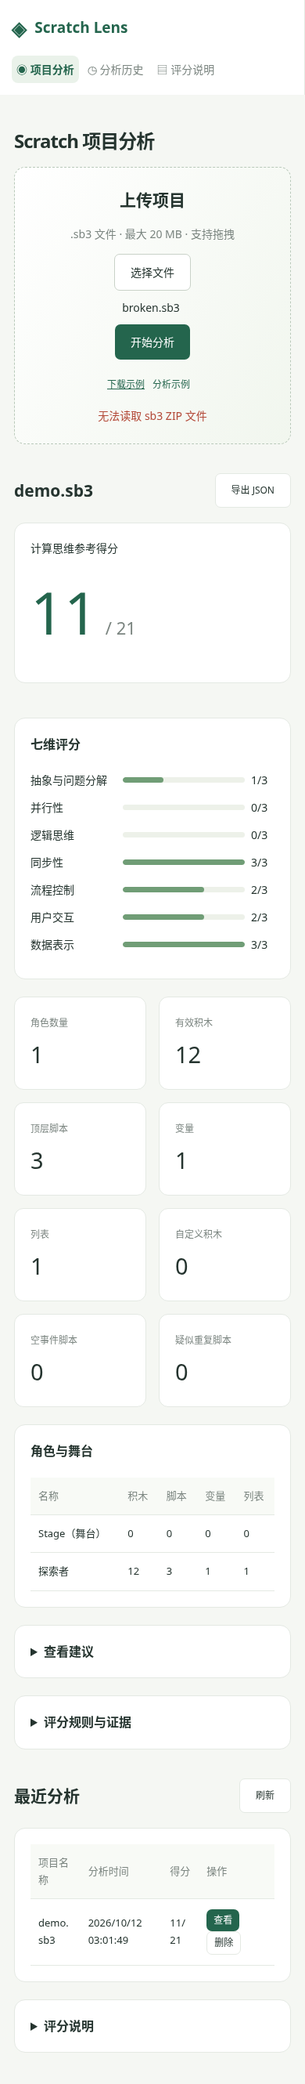
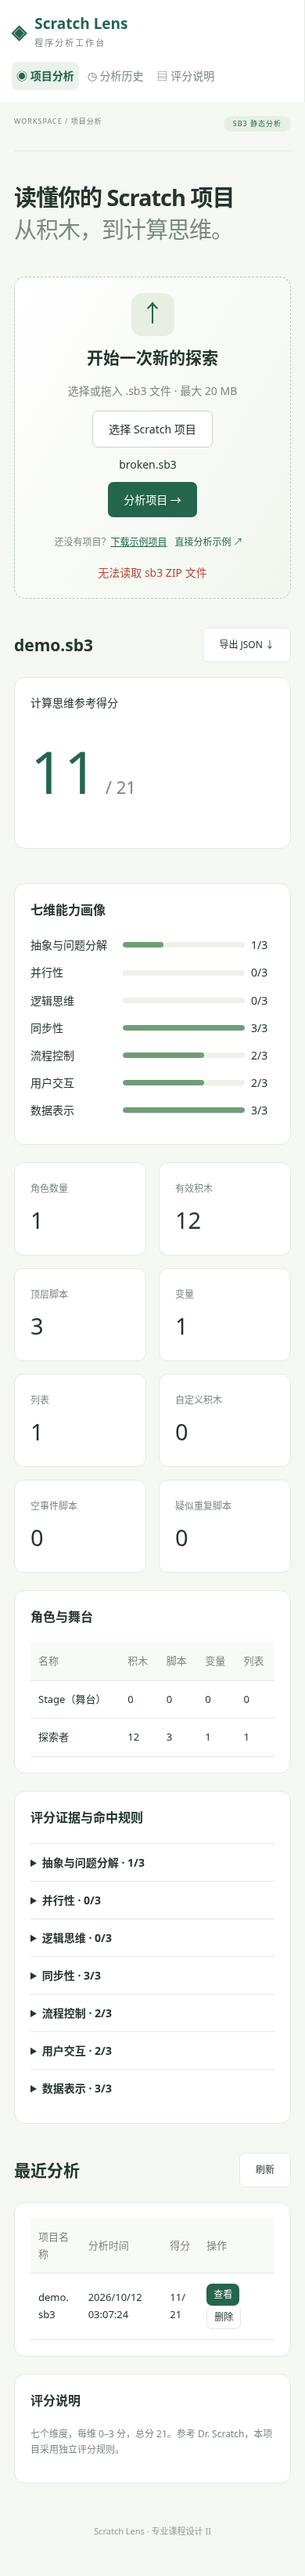
Restore original modules and remove unnecessary guidance copy

diff --git a/public/index.html b/public/index.html
@@ -1,3 +1,3 @@
 <!doctype html>
 <html lang="zh-CN"><head><meta charset="utf-8"><meta name="viewport" content="width=device-width,initial-scale=1"><title>Scratch Lens · 程序分析系统</title><link rel="stylesheet" href="/style.css"><script src="/app.js" defer></script></head>
-<body><aside><a class="brand" href="/">◈ <span>Scratch Lens</span></a><nav><a href="#upload">◉ 项目分析</a><a href="#history">◷ 分析历史</a><a href="#rules">▤ 评分说明</a></nav></aside><main><section class="intro"><h1>Scratch 项目分析</h1></section><section id="upload" class="upload card"><h2>上传项目</h2><p>.sb3 文件 · 最大 20 MB · 支持拖拽</p><form id="upload-form"><label class="file-label" for="file">选择文件</label><input id="file" name="file" type="file" accept=".sb3" required><span id="filename">尚未选择文件</span><button id="submit" type="submit">开始分析</button></form><div class="example"><a href="/api/example">下载示例</a><button id="demo" class="link" type="button">分析示例</button></div><p id="status" role="status" aria-live="polite"></p></section><section id="report" hidden><div class="section-heading"><div><h2 id="report-title">分析报告</h2></div><button id="export" class="secondary">导出 JSON</button></div><div class="report-grid"><div class="card score-card"><span>计算思维参考得分</span><div class="score"><strong id="score">0</strong><span>/ 21</span></div></div><div class="card dimensions"><h3>七维评分</h3><div id="dimensions"></div></div></div><div id="metrics" class="metrics"></div><div><section class="card"><h3>角色与舞台</h3><div class="table-wrap"><table><thead><tr><th>名称</th><th>积木</th><th>脚本</th><th>变量</th><th>列表</th></tr></thead><tbody id="targets"></tbody></table></div></section><details class="card suggestions"><summary>查看建议</summary><ul id="suggestions"></ul><ul id="warnings"></ul></details></div><details class="card evidence"><summary>评分规则与证据</summary><div id="evidence"></div></details></section><section id="history"><div class="section-heading"><div><h2>最近分析</h2></div><button id="refresh" class="secondary">刷新</button></div><div class="card table-wrap"><table><thead><tr><th>项目名称</th><th>分析时间</th><th>得分</th><th>操作</th></tr></thead><tbody id="history-body"></tbody></table></div></section><details id="rules" class="card rules"><summary>评分说明</summary><p>参考 Dr. Scratch 七维模型，每维 0–3 分，总分 21。具体规则为本项目独立实现，不代表官方评分。</p><p>仅做静态结构分析，分数不判断运行正确性。上传文件不保留，报告存于本机，可从历史删除；同一实例共享历史。</p></details></main></body></html>
+<body><aside><a class="brand" href="/">◈ <span>Scratch Lens<small>程序分析工作台</small></span></a><nav><a href="#upload">◉ 项目分析</a><a href="#history">◷ 分析历史</a><a href="#rules">▤ 评分说明</a></nav><div class="side-note">课程设计 · 题目七<br>让积木背后的思维可见</div></aside><main><header><span>WORKSPACE / 项目分析</span><span class="badge">SB3 静态分析</span></header><section class="intro"><h1>读懂你的 Scratch 项目<span>从积木，到计算思维。</span></h1></section><section id="upload" class="upload card"><div class="upload-icon">↑</div><h2>开始一次新的探索</h2><p>选择或拖入 .sb3 文件 · 最大 20 MB</p><form id="upload-form"><label class="file-label" for="file">选择 Scratch 项目</label><input id="file" name="file" type="file" accept=".sb3" required><span id="filename">尚未选择文件</span><button id="submit" type="submit">分析项目 →</button></form><div class="example">还没有项目？<a href="/api/example">下载示例项目</a><button id="demo" class="link" type="button">直接分析示例 ↗</button></div><p id="status" role="status" aria-live="polite"></p></section><section id="report" hidden><div class="section-heading"><div><h2 id="report-title">分析报告</h2></div><button id="export" class="secondary">导出 JSON ↓</button></div><div class="report-grid"><div class="card score-card"><span>计算思维参考得分</span><div class="score"><strong id="score">0</strong><span>/ 21</span></div></div><div class="card dimensions"><h3>七维能力画像</h3><div id="dimensions"></div></div></div><div id="metrics" class="metrics"></div><div><section class="card"><h3>角色与舞台</h3><div class="table-wrap"><table><thead><tr><th>名称</th><th>积木</th><th>脚本</th><th>变量</th><th>列表</th></tr></thead><tbody id="targets"></tbody></table></div></section><section id="warning-panel" class="card" hidden><h3>项目检查</h3><ul id="warnings"></ul></section></div><section class="card evidence"><h3>评分证据与命中规则</h3><div id="evidence"></div></section></section><section id="history"><div class="section-heading"><div><h2>最近分析</h2></div><button id="refresh" class="secondary">刷新</button></div><div class="card table-wrap"><table><thead><tr><th>项目名称</th><th>分析时间</th><th>得分</th><th>操作</th></tr></thead><tbody id="history-body"></tbody></table></div></section><section id="rules" class="card rules"><h3>评分说明</h3><p>七个维度，每维 0–3 分，总分 21。参考 Dr. Scratch，本项目采用独立评分规则。</p></section><footer>Scratch Lens · 专业课程设计 II</footer></main></body></html>

diff --git a/public/style.css b/public/style.css
@@ -1,4 +1,1 @@
 :root{--ink:#25342f;--muted:#7b8580;--green:#24654d;--line:#e4e9e3;--bg:#f5f7f3}*{box-sizing:border-box}html{scroll-behavior:smooth}body{margin:0;background:var(--bg);color:var(--ink);font:14px/1.65 system-ui,-apple-system,"Segoe UI",sans-serif}aside{width:230px;position:fixed;inset:0 auto 0 0;background:#fff;border-right:1px solid var(--line);padding:35px 25px}.brand{display:flex;gap:10px;align-items:center;font-size:25px;color:var(--green);text-decoration:none;font-weight:700}.brand span{font-size:19px}.brand small{display:block;font-size:11px;font-weight:400;color:var(--muted);letter-spacing:2px}nav{display:grid;gap:15px;margin-top:55px}nav a{padding:12px 15px;text-decoration:none;color:var(--muted);border-radius:8px}nav a:first-child{background:#eaf2ea;color:var(--green);font-weight:600}.side-note{position:absolute;bottom:35px;color:var(--muted);font-size:12px;line-height:2}main{max-width:1400px;margin-left:230px;padding:25px 50px}header{display:flex;justify-content:space-between;padding-bottom:24px;border-bottom:1px solid var(--line);color:var(--muted);font-size:11px;letter-spacing:1px}.badge{background:#e7efe4;color:var(--green);padding:3px 12px;border-radius:20px}.intro{padding:45px 0 25px}.eyebrow{font-size:10px;letter-spacing:2px;color:var(--green);font-weight:700}h1{font-size:38px;line-height:1.4;letter-spacing:-1px;margin:14px 0}h1 span{display:block;font-weight:400;color:#7b8b7d}p{color:var(--muted)}h2{font-size:21px;margin:10px 0}h3{font-size:16px;margin:0 0 20px}.card{background:#fff;border:1px solid var(--line);border-radius:14px;padding:27px;margin-bottom:22px}.upload{text-align:center;border:1px dashed #b9c9ba;background:linear-gradient(120deg,#fff,#f1f6ee);padding:30px}.upload-icon{font-size:30px;margin:auto;background:#e7efe2;width:55px;height:55px;border-radius:14px;color:var(--green)}button,.file-label{font:inherit;border:0;border-radius:7px;padding:11px 20px;cursor:pointer;background:var(--green);color:#fff;display:inline-block}button:hover,.file-label:hover{filter:brightness(.92)}button:disabled{opacity:.5;cursor:wait}#file{position:absolute;width:1px;height:1px;overflow:hidden;opacity:0}#file:focus+.file-label,.file-label:has(+input:focus){outline:2px solid var(--green)}.file-label{background:white;color:var(--ink);border:1px solid #c9d2c8}#filename{margin:0 18px;display:inline-block;max-width:280px;overflow-wrap:anywhere}.example{font-size:12px;color:var(--muted);margin-top:18px}a,.link{color:var(--green)}.link{background:transparent;padding:4px 10px;font-size:12px}.secondary{background:#fff;border:1px solid var(--line);color:var(--ink);font-size:12px}.section-heading{display:flex;align-items:center;justify-content:space-between;margin:32px 0 14px}.report-grid{display:grid;grid-template-columns:1fr 1.6fr;gap:22px}.score-card{display:flex;flex-direction:column;justify-content:center}.score{margin:15px 0}.score strong{font-size:75px;font-weight:500;color:var(--green)}.score span{font-size:22px;color:var(--muted);padding-left:10px}#note{font-size:12px}.dimension{display:grid;grid-template-columns:125px 1fr 38px;gap:15px;align-items:center;margin:12px 0}.track{height:7px;background:#edf1e9;border-radius:8px;overflow:hidden}.fill{height:100%;background:#709d76;border-radius:8px}.metrics{display:grid;grid-template-columns:repeat(4,1fr);gap:16px;margin-bottom:22px}.metric{padding:20px;background:#fff;border:1px solid var(--line);border-radius:12px}.metric span{color:var(--muted);font-size:12px}.metric strong{display:block;font-size:29px;font-weight:500;margin-top:6px}table{width:100%;border-collapse:collapse;text-align:left;font-size:13px}th{font-weight:500;color:var(--muted);background:#f8faf6}td,th{padding:13px 10px;border-bottom:1px solid var(--line);overflow-wrap:anywhere}td button{padding:4px 9px;font-size:12px;margin-right:6px}.table-wrap{overflow-x:auto}li{margin-bottom:10px;color:#68776c}ul{padding-left:20px}.rules p,.evidence p{font-size:12px}details{border-top:1px solid var(--line);padding:12px 0}summary{cursor:pointer;font-weight:600}code{font-size:11px;overflow-wrap:anywhere}footer{text-align:center;padding:30px;color:#929c93;font-size:11px}#status.error{color:#b34938}#status{margin-bottom:0;min-height:22px}[hidden]{display:none!important}@media(max-width:1000px){aside{width:185px;padding:25px 15px}main{margin-left:185px;padding:25px}.report-grid{grid-template-columns:1fr}.metrics{grid-template-columns:repeat(2,1fr)}}@media(max-width:650px){aside{position:static;width:auto;padding:15px}nav{display:flex;margin-top:15px;gap:5px}nav a{padding:6px}.side-note{display:none}main{margin:0;padding:18px}h1{font-size:29px}.intro{padding-top:25px}.upload{padding:20px 12px}#filename{display:block;margin:10px}header{font-size:9px}.dimension{grid-template-columns:110px 1fr 30px;gap:8px}.card{padding:20px}.section-heading{gap:10px}}
-
-/* Compact interface */
-.intro{padding:24px 0 16px}.intro h1{font-size:28px;margin:0}.upload{padding:24px}.upload h2{margin-top:0}.score-card .score{margin:8px 0}.card>summary{font-size:16px}.card>summary+ul,.card>summary+div,.card>summary+p{margin-top:18px}details.card{border:1px solid var(--line);padding:20px 27px}#status:empty{display:none}@media(max-width:650px){.intro h1{font-size:24px}details.card{padding:20px}}

diff --git a/public/app.js b/public/app.js
@@ -8,12 +8,11 @@ function render(report){current=report;$('#report').hidden=false;$('#report-titl
  for(const d of report.dimensions){const row=el('div',undefined,'dimension'),track=el('div',undefined,'track'),fill=el('div',undefined,'fill');fill.style.width=(d.score/3*100)+'%';track.append(fill);row.append(el('span',d.name),track,el('span',d.score+'/3'));$('#dimensions').append(row);const details=el('details');details.append(el('summary',`${d.name} · ${d.score}/3`));const ul=el('ul');for(const l of d.levels)ul.append(el('li',`${l.matched?'✓':'○'} ${l.level} 分：${l.rule}`));details.append(ul);for(const e of d.evidence)details.append(el('p',`${e.target} · ${e.opcode} · ID: ${e.blockId}`));if(!d.evidence.length)details.append(el('p','此维度由脚本数量或结构推导，或未命中相关积木。'));$('#evidence').append(details);}
  $('#metrics').replaceChildren();for(const [key,label]of [['sprites','角色数量'],['blocks','有效积木'],['scripts','顶层脚本'],['variables','变量'],['lists','列表'],['customBlocks','自定义积木'],['emptyScripts','空事件脚本'],['duplicateScripts','疑似重复脚本']]){const c=el('div',undefined,'metric');c.append(el('span',label),el('strong',report.metrics[key]));$('#metrics').append(c);}
  $('#targets').replaceChildren();for(const t of report.targets){const tr=el('tr');for(const value of [t.name+(t.isStage?'（舞台）':''),t.blocks,t.scripts,t.variables,t.lists])tr.append(el('td',value));$('#targets').append(tr);}
- for(const key of ['suggestions','warnings']){$('#'+key).replaceChildren(...report[key].map(x=>el('li',x)));}if(!report.suggestions.length)$('#suggestions').append(el('li','暂无改进建议。'));
+ $('#warnings').replaceChildren(...report.warnings.map(x=>el('li',x)));$('#warning-panel').hidden=report.warnings.length===0;
 }
 async function history(){try{const rows=await api('/api/history');$('#history-body').replaceChildren();if(!rows.length){const td=el('td','暂无记录');td.colSpan=4;const tr=el('tr');tr.append(td);$('#history-body').append(tr);}for(const r of rows){const tr=el('tr');for(const value of [r.filename,new Date(r.created_at).toLocaleString('zh-CN'),r.score+'/21'])tr.append(el('td',value));const td=el('td'),view=el('button','查看'),del=el('button','删除','secondary');view.onclick=async()=>{try{render(await api('/api/history/'+r.id));$('#report').scrollIntoView({behavior:'smooth'});}catch(e){status(e.message,true);}};del.onclick=async()=>{if(!confirm('删除这条分析记录？'))return;try{await api('/api/history/'+r.id,{method:'DELETE'});await history();if(current?.id===r.id){current=null;$('#report').hidden=true;}}catch(e){status(e.message,true);}};td.append(view,del);tr.append(td);$('#history-body').append(tr);}}catch(e){status(e.message,true);}}
 async function analyze(file){if(!file)return status('请选择一个 .sb3 文件',true);if(!file.name.toLowerCase().endsWith('.sb3')||file.size>20*1024*1024)return status('仅支持最大 20 MB 的 .sb3 文件',true);$('#submit').disabled=true;$('#demo').disabled=true;status('正在分析…');try{const body=new FormData();body.append('file',file);render(await api('/api/analyze',{method:'POST',body}));status('分析完成');await history();$('#report').scrollIntoView({behavior:'smooth'});}catch(e){status(e.message,true);}finally{$('#submit').disabled=false;$('#demo').disabled=false;}}
 $('#file').onchange=()=>{$('#filename').textContent=$('#file').files[0]?.name||'尚未选择文件';};$('#upload-form').onsubmit=e=>{e.preventDefault();analyze($('#file').files[0]);};
 $('#upload').ondragover=e=>{e.preventDefault();};$('#upload').ondrop=e=>{e.preventDefault();analyze(e.dataTransfer.files[0]);};
 $('#demo').onclick=async()=>{try{const r=await fetch('/api/example');if(!r.ok)throw new Error('示例下载失败');await analyze(new File([await r.blob()],'demo.sb3',{type:'application/zip'}));}catch(e){status(e.message,true);}};
-document.querySelector('nav a[href="#rules"]').addEventListener('click',()=>{$('#rules').open=true;});
 $('#refresh').onclick=history;$('#export').onclick=()=>{if(!current)return;const url=URL.createObjectURL(new Blob([JSON.stringify(current,null,2)],{type:'application/json'})),a=el('a');a.href=url;a.download='scratch-report-'+current.id+'.json';a.click();setTimeout(()=>URL.revokeObjectURL(url),1000);};history();
